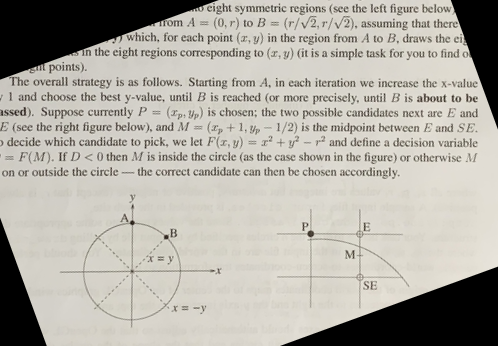
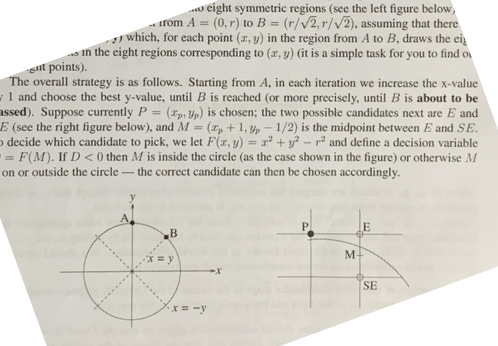
change background to white

diff --git a/HoughTransform.py b/HoughTransform.py
@@ -29,7 +29,7 @@ def rotateImage(src, degree):
     RotateMatrix = cv2.getRotationMatrix2D((w / 2.0, h / 2.0), degree, 1)
     print(RotateMatrix)
     # 仿射变换，背景色填充为黑色
-    rotate = cv2.warpAffine(src, RotateMatrix, (w, h), borderValue=(0, 0, 0))
+    rotate = cv2.warpAffine(src, RotateMatrix, (w, h), borderValue=(255, 255, 255))
     return rotate
 
 def switch_grayscale(image):
